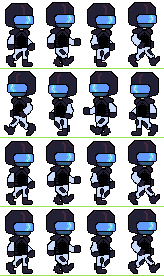
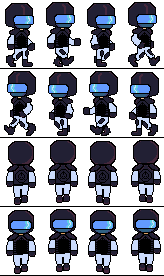
Implementation de porte
(collision à completement modifier)

Changed region(s): [[0.0, 0.4928, 1.0, 1.0], [0.0, 0.2319, 1.0, 0.2609]]

diff --git a/main.cpp b/main.cpp
@@ -1,133 +1,152 @@
-#include "Player.h"
 #include <iostream>
 #include <raylib.h>
 
-void movingSprite(Player& player, Rectangle& sprite, int& acceleration)
-{
-	acceleration++;
-	if (acceleration < 10)
-	{
-		sprite.x = 0;
-	} else if (acceleration < 20)
-	{
-		sprite.x = player.getW();
-	} else if (acceleration < 30)
-	{
-		sprite.x = player.getW()*2;
-	} else if (acceleration < 40)
-	{
-		sprite.x = player.getW()*3;
-	} else
-	{
-		acceleration = 0;
-	}
+// Structures pour les éléments du jeu
+struct CorridorHorizontal {
+    int x, y;
+    Texture2D texture;
+    Rectangle hitboxNorth, hitboxSouth;
+};
+
+struct DoorHorizontal {
+    int x, y;
+    Texture2D texture;
+    Rectangle hitboxNorth, hitboxDoor, hitboxSouth;
+    bool open;
+};
+
+struct Player {
+    int x, y, w, h, v;
+    Texture2D texture;
+    Rectangle hitbox;
+};
+
+// Création d'un joueur
+void createPlayer(Player& player, float x, float y, const char* file_name) {
+    player.x = x;
+    player.y = y;
+    player.w = 41;
+    player.h = 69;
+    player.v = 3;
+    player.texture = LoadTexture(file_name);
+    player.hitbox = { x + 4.0f, y + 64.0f, 33.0f, 7.0f }; // Bas de la texture pour hitbox
 }
 
-int main()
-{
-	Player guard(250, 100, 41, 69, 3, "./assets/SCP_GuardNoHelmet_Walking.png");
-	InitWindow(500, 200, "SCP : Secure Contain Protect");
+// Création d'un corridor
+void createCorridor(CorridorHorizontal& corridor, float x, float y) {
+    corridor.x = x;
+    corridor.y = y;
+    corridor.texture = LoadTexture("./assets/SCP_Corridor.png");
+    corridor.hitboxNorth = { x, y + 104.0f, 500.0f, 10.0f };
+    corridor.hitboxSouth = { x, y + 172.0f, 500.0f, 10.0f };
+}
 
-	//Traitement de l'image du garde
-	Image guard_img = LoadImage(guard.getT().c_str());
-	Texture2D guard_texture = LoadTextureFromImage(guard_img);
-	UnloadImage(guard_img);
-	Rectangle guard_sprite = {0, 0, 40, 67};
-	Rectangle guard_hitbox = {guard.getX()+4, guard.getY()+guard.getH()-5, guard.getW()-8, 7};
-	int acceleration = 0;
+// Création d'une porte
+void createDoor(DoorHorizontal& door, float x, float y) {
+    door.x = x;
+    door.y = y;
+    door.texture = LoadTexture("./assets/SCP_Door.png");
+    door.hitboxNorth = { x + 17.0f, y + 95.0f, 17.0f, 14.0f };
+    door.hitboxSouth = { x + 17.0f, y + 146.0f, 17.0f, 14.0f };
+    door.hitboxDoor = { x + 17.0f, y + 109.0f, 17.0f, 37.0f };
+    door.open = false;
+}
 
-	//Traitement de l'image du couloir 500 175
-	Image corridor_img = LoadImage("./assets/SCP_Corridor.png");
-	Texture2D corridor_texture = LoadTextureFromImage(corridor_img);
-	Rectangle up_hitbox = {0, 114, 500, 10};
-	Rectangle down_hitbox = {0, 182, 500, 10};
-	Rectangle right_hitbox = {354, 120, 10, 62};
-	Rectangle left_hitbox = {0, 120, 10, 62};
-	UnloadImage(corridor_img);
+// Mise à jour de l'animation du sprite
+void updateSpriteAnimation(Player& player, Rectangle& sprite, int& frameCounter) {
+    frameCounter++;
+    int frame = (frameCounter / 10) % 4; // Cycle entre 0 et 3
+    sprite.x = frame * player.w; // Change la colonne
+    if (frameCounter >= 40) frameCounter = 0; // Réinitialise après un cycle
+}
 
+// Gestion du mouvement du joueur
+void handleMovement(Player& player, Rectangle& sprite, int& frameCounter) {
+    bool isMoving = false;
 
-	SetTargetFPS(60);
+    // Déplacement à droite
+    if (IsKeyDown(KEY_D) || IsKeyDown(KEY_RIGHT)) {
+        player.x += player.v;
+        player.hitbox.x += player.v;
+        sprite.y = 0; // Ligne pour "droite"
+        isMoving = true;
+    }
+    // Déplacement à gauche
+    if (IsKeyDown(KEY_A) || IsKeyDown(KEY_LEFT)) {
+        player.x -= player.v;
+        player.hitbox.x -= player.v;
+        sprite.y = player.h; // Ligne pour "gauche"
+        isMoving = true;
+    }
+    // Déplacement vers le haut
+    if (IsKeyDown(KEY_W) || IsKeyDown(KEY_UP)) {
+        player.y -= player.v;
+        player.hitbox.y -= player.v;
+        sprite.y = player.h * 2; // Ligne pour "haut"
+        isMoving = true;
+    }
+    // Déplacement vers le bas
+    if (IsKeyDown(KEY_S) || IsKeyDown(KEY_DOWN)) {
+        player.y += player.v;
+        player.hitbox.y += player.v;
+        sprite.y = player.h * 3; // Ligne pour "bas"
+        isMoving = true;
+    }
 
-	while (!WindowShouldClose())
-	{
-		if (!IsKeyDown(KEY_A) && !IsKeyDown(KEY_LEFT) && !IsKeyDown(KEY_D) && !IsKeyDown(KEY_RIGHT) && !IsKeyDown(KEY_W) && !IsKeyDown(KEY_UP) && !IsKeyDown(KEY_S) && !IsKeyDown(KEY_DOWN))
-		{
-			acceleration = 0;
-		}
+    // Animation du sprite
+    if (isMoving) {
+        updateSpriteAnimation(player, sprite, frameCounter);
+    } else {
+        frameCounter = 0; // Réinitialise l'animation si immobile
+    }
+}
 
-		if (IsKeyDown(KEY_D)|| IsKeyDown(KEY_RIGHT))
-		{
-			guard_hitbox.x += guard.getV();
-			if (CheckCollisionRecs(guard_hitbox, right_hitbox))
-			{
-				guard_hitbox.x -= guard.getV();
-			} else
-			{
-				guard.moveX(guard.getV());
-				guard_sprite.y = 0;
-				std::cout << guard_sprite.y << std::endl;
-				movingSprite(guard, guard_sprite, acceleration);
-			}
-		}
-		if (IsKeyDown(KEY_A) || IsKeyDown(KEY_LEFT))
-		{
-			guard_hitbox.x -= guard.getV();
-			if (CheckCollisionRecs(guard_hitbox, left_hitbox))
-			{
-				guard_hitbox.x += guard.getV();
-			} else
-			{
-				guard.moveX(-guard.getV());
-				guard_sprite.y = guard.getH();
-				std::cout << guard_sprite.y << std::endl;
-				movingSprite(guard, guard_sprite, acceleration);
-			}
-		}
-		if (IsKeyDown(KEY_W) || IsKeyDown(KEY_UP))
-		{
-			guard_hitbox.y -= guard.getV();
-			if (CheckCollisionRecs(guard_hitbox, up_hitbox))
-			{
-				guard_hitbox.y += guard.getV();
-			} else
-			{
-				guard.moveY(-guard.getV());
-				guard_sprite.y = guard.getH()*2;
-				std::cout << guard_sprite.y << std::endl;
-				movingSprite(guard, guard_sprite, acceleration);
-			}
-		}
-		if (IsKeyDown(KEY_S)|| IsKeyDown(KEY_DOWN))
-		{
-			guard_hitbox.y += guard.getV();
-			if (CheckCollisionRecs(guard_hitbox, down_hitbox))
-			{
-				guard_hitbox.y -= guard.getV();
-			} else
-			{
-				guard.moveY(guard.getV());
-				guard_sprite.y = guard.getH()*3;
-				std::cout << guard_sprite.y << std::endl;
-				movingSprite(guard, guard_sprite, acceleration);
-			}
-		}
+// Fonction principale
+int main() {
+    InitWindow(500, 200, "SCP : Secure Contain Protect");
 
-		//Draw
-		BeginDrawing();
-		ClearBackground(BLACK);
-		DrawTexture(corridor_texture, 0, 10, WHITE);
-		DrawTextureRec(guard_texture, guard_sprite, {guard.getX(), guard.getY()}, WHITE);
+    // Initialisation du joueur
+    Player guard;
+    createPlayer(guard, 150.0f, 100.0f, "./assets/SCP_Guard_Walking.png");
+    Rectangle guardSprite = { 0.0f, 0.0f, static_cast<float>(guard.w), static_cast<float>(guard.h) };
 
-		//Hit boxes
-		//DrawRectangle(guard_hitbox.x, guard_hitbox.y, guard_hitbox.width, guard_hitbox.height, RED);
-		//DrawRectangle(up_hitbox.x, up_hitbox.y, up_hitbox.width, up_hitbox.height, WHITE);
-		//DrawRectangle(down_hitbox.x, down_hitbox.y, down_hitbox.width, down_hitbox.height, WHITE);
-		//DrawRectangle(right_hitbox.x, right_hitbox.y, right_hitbox.width, right_hitbox.height, WHITE);
-		//DrawRectangle(left_hitbox.x, left_hitbox.y, left_hitbox.width, left_hitbox.height, WHITE);
-		EndDrawing();
-	}
-	UnloadTexture(guard_texture);
-	UnloadTexture(corridor_texture);
-	CloseWindow();
-	return 0;
+    // Initialisation du corridor et de la porte
+    CorridorHorizontal corridor1;
+    createCorridor(corridor1, 0.0f, 10.0f);
+    DoorHorizontal door1;
+    createDoor(door1, 225.0f, 26.0f);
+
+    int frameCounter = 0;
+    SetTargetFPS(60);
+
+    // Boucle principale
+    while (!WindowShouldClose()) {
+        // Gestion des mouvements
+        handleMovement(guard, guardSprite, frameCounter);
+
+        // Dessin
+        BeginDrawing();
+        ClearBackground(BLACK);
+        DrawTexture(corridor1.texture, corridor1.x, corridor1.y, WHITE);
+        DrawTexture(door1.texture, door1.x, door1.y, WHITE);
+        DrawTextureRec(guard.texture, guardSprite, { static_cast<float>(guard.x), static_cast<float>(guard.y) }, WHITE);
+
+        // Debug : Affiche les hitboxes
+        DrawRectangleLinesEx(corridor1.hitboxNorth, 2.0f, RED);
+        DrawRectangleLinesEx(corridor1.hitboxSouth, 2.0f, RED);
+        DrawRectangleLinesEx(guard.hitbox, 2.0f, GREEN);
+        DrawRectangleLinesEx(door1.hitboxNorth, 2.0f, RED);
+        DrawRectangleLinesEx(door1.hitboxDoor, 2.0f, PURPLE);
+        DrawRectangleLinesEx(door1.hitboxSouth, 2.0f, RED);
+
+        EndDrawing();
+    }
+
+    // Libération des ressources
+    UnloadTexture(guard.texture);
+    UnloadTexture(corridor1.texture);
+    UnloadTexture(door1.texture);
+    CloseWindow();
+
+    return 0;
 }
